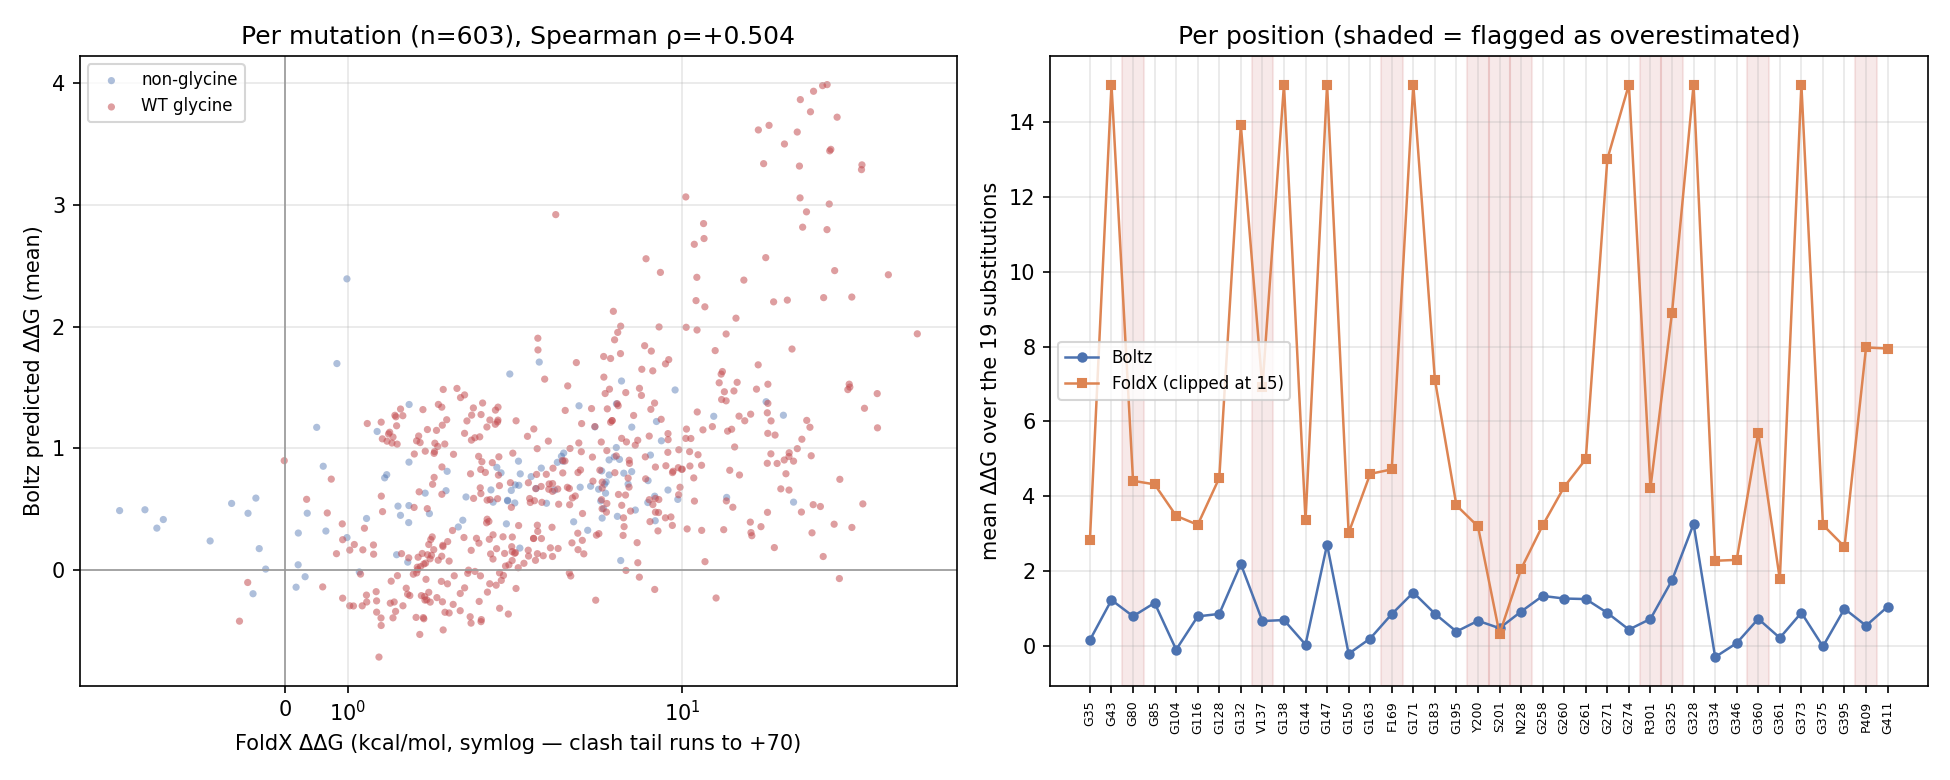
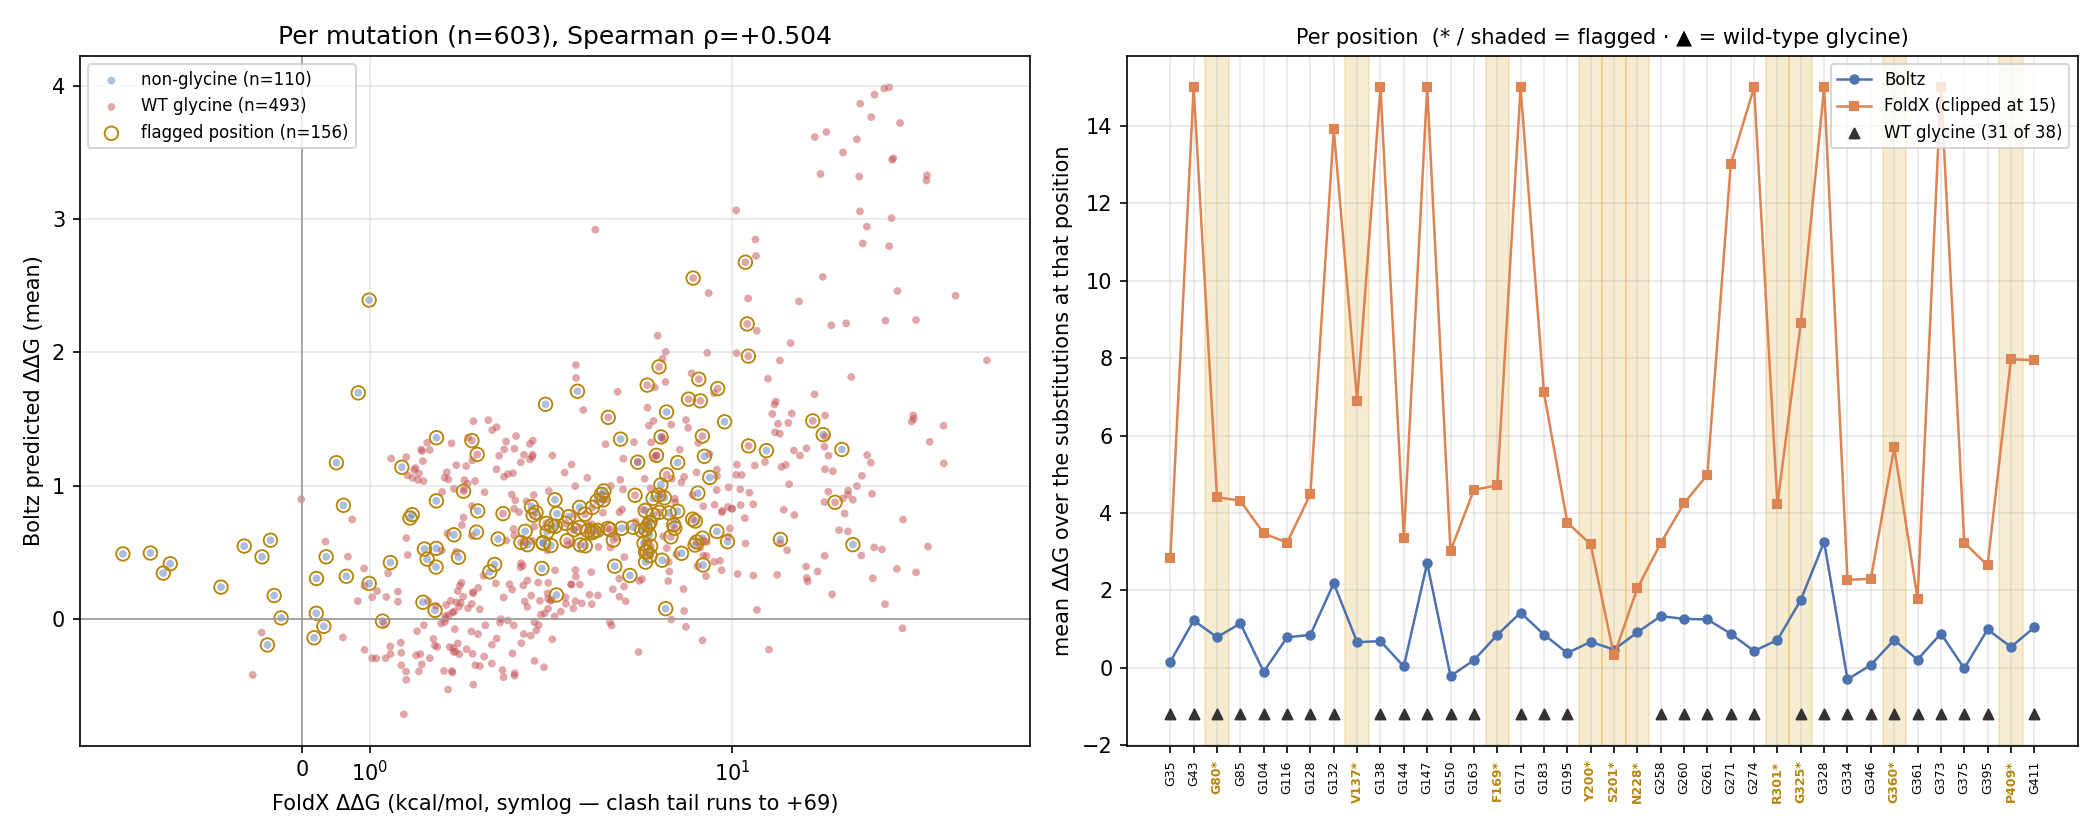
results/10: mark flagged positions and glycines in both comparison figures

diff --git a/results/10_gla_scan/map_discrepancy.py b/results/10_gla_scan/map_discrepancy.py
@@ -153,39 +153,72 @@ def _paint(pdb_path, per, out_pdb):
 
 
 def _figure(m, per, path):
+    """Discrepancy along the sequence, with flagged positions and glycines marked.
+
+    Two orthogonal annotations, because they overlap (3 of the 10 flagged positions
+    are themselves glycines): flagged = shaded band + bold red tick label; glycine =
+    black-outlined bar + 'G' marker strip under the axis.
+    """
     import matplotlib
     matplotlib.use("Agg")
     import matplotlib.pyplot as plt
+    from matplotlib.patches import Patch
     path.parent.mkdir(exist_ok=True)
-    o = per.sort_values("position")
+    o = per.sort_values("position").reset_index(drop=True)
     x = np.arange(len(o))
-    fig, (a, b, c) = plt.subplots(3, 1, figsize=(13, 9), sharex=True,
+    is_g = (o.wt_aa == "G").to_numpy()
+    fig, (a, b, c) = plt.subplots(3, 1, figsize=(14, 9.5), sharex=True,
                                   gridspec_kw=dict(height_ratios=[2, 2, 1.3]))
 
-    a.bar(x, o.delta_mean, color=["#C44E52" if v < 0 else "#4C72B0" for v in o.delta_mean])
+    for i, r in enumerate(o.itertuples(index=False)):
+        if r.flagged:
+            for ax in (a, b, c):
+                ax.axvspan(i - .5, i + .5, color="#DDAA33", alpha=.22, zorder=0)
+
+    a.bar(x, o.delta_mean,
+          color=["#C44E52" if v < 0 else "#4C72B0" for v in o.delta_mean],
+          edgecolor=["black" if g else "none" for g in is_g],
+          linewidth=[1.1 if g else 0 for g in is_g], zorder=2)
     a.axhline(0, color="0.3", lw=0.8)
     a.set_ylabel("Boltz − FoldX\n(percentile points)")
     a.set_title("Disagreement in relative ordering (no ground truth: neither is 'right')\n"
-                "blue = Boltz ranks it more destabilizing · red = FoldX does",
-                fontsize=10)
-    for i, r in enumerate(o.itertuples(index=False)):
-        if r.flagged:
-            a.axvspan(i-.5, i+.5, color="#DDAA33", alpha=.18, zorder=0)
+                "blue = Boltz ranks it more destabilizing · red = FoldX does", fontsize=10)
+    a.legend(handles=[
+        Patch(facecolor="#4C72B0", label="Boltz ranks more destabilizing"),
+        Patch(facecolor="#C44E52", label="FoldX ranks more destabilizing"),
+        Patch(facecolor="white", edgecolor="black", linewidth=1.1,
+              label="wild-type glycine (31 of 38)"),
+        Patch(facecolor="#DDAA33", alpha=.5, label="flagged position (10)"),
+    ], fontsize=8, ncol=2, loc="upper left", framealpha=.92)
 
-    b.plot(x, o.boltz.rank(pct=True)*100, "o-", ms=4, lw=1.2, label="Boltz (percentile)",
-           color="#4C72B0")
-    b.plot(x, o.foldx.rank(pct=True)*100, "s-", ms=4, lw=1.2, label="FoldX (percentile)",
-           color="#DD8452")
+    b.plot(x, o.boltz.rank(pct=True) * 100, "o-", ms=4, lw=1.2, color="#4C72B0",
+           label="Boltz (percentile)", zorder=2)
+    b.plot(x, o.foldx.rank(pct=True) * 100, "s-", ms=4, lw=1.2, color="#DD8452",
+           label="FoldX (percentile)", zorder=2)
     b.set_ylabel("per-position severity\n(percentile)")
     b.legend(fontsize=8); b.grid(alpha=.3)
 
-    c.bar(x, o.neighbors, color="#55A868")
+    c.bar(x, o.neighbors, color="#55A868",
+          edgecolor=["black" if g else "none" for g in is_g],
+          linewidth=[1.1 if g else 0 for g in is_g], zorder=2)
     c.set_ylabel("burial\n(neighbours)")
+    # 'G' strip marking every glycine position
+    for i, g in enumerate(is_g):
+        if g:
+            c.annotate("G", (i, 0), xytext=(0, -22), textcoords="offset points",
+                       ha="center", va="top", fontsize=6.5, color="#333333",
+                       annotation_clip=False, fontweight="bold")
     c.set_xticks(x)
-    c.set_xticklabels([f"{r.wt_aa}{r.position}" for r in o.itertuples(index=False)],
-                      rotation=90, fontsize=6)
+    c.set_xticklabels([f"{r.wt_aa}{r.position}" + ("*" if r.flagged else "")
+                       for r in o.itertuples(index=False)], rotation=90, fontsize=6)
+    for tick, fl in zip(c.get_xticklabels(), o.flagged):
+        if fl:
+            tick.set_color("#B8860B"); tick.set_fontweight("bold")
     c.grid(alpha=.3)
-    fig.tight_layout()
+    c.set_xlim(-0.8, len(o) - 0.2)
+    fig.text(0.5, 0.005, "* = flagged position (shaded) · outlined bars and the G strip "
+             "= wild-type glycine", ha="center", fontsize=8, color="0.3")
+    fig.tight_layout(rect=[0, 0.022, 1, 1])
     fig.savefig(path, dpi=150)
     plt.close(fig)
 

diff --git a/results/10_gla_scan/compare_foldx.py b/results/10_gla_scan/compare_foldx.py
@@ -132,38 +132,58 @@ def main():
 
 
 def _plots(scored, per_pos, out, regime):
+    """Scatter + per-position comparison, with glycines and flagged positions marked.
+
+    The two annotations are orthogonal and overlap (3 of the 10 flagged positions are
+    glycines), so they use different channels: glycine = colour/outline, flagged =
+    shaded band + bold tick label.
+    """
     import matplotlib
     matplotlib.use("Agg")
     import matplotlib.pyplot as plt
-    fig, (a, b) = plt.subplots(1, 2, figsize=(13, 5.2))
+    from matplotlib.patches import Patch
+    from matplotlib.lines import Line2D
+    fig, (a, b) = plt.subplots(1, 2, figsize=(14, 5.6))
 
-    gly = scored.wt_aa == "G"
-    a.scatter(scored.foldx[~gly], scored.boltz[~gly], s=12, alpha=0.45,
-              color="#4C72B0", edgecolors="none", label="non-glycine")
-    a.scatter(scored.foldx[gly], scored.boltz[gly], s=12, alpha=0.55,
-              color="#C44E52", edgecolors="none", label="WT glycine")
+    gly = (scored.wt_aa == "G").to_numpy()
+    flag = scored.position.isin(FLAGGED).to_numpy()
+    a.scatter(scored.foldx[~gly], scored.boltz[~gly], s=14, alpha=.45,
+              color="#4C72B0", edgecolors="none", label=f"non-glycine (n={(~gly).sum()})")
+    a.scatter(scored.foldx[gly], scored.boltz[gly], s=14, alpha=.5,
+              color="#C44E52", edgecolors="none", label=f"WT glycine (n={gly.sum()})")
+    # flagged mutations outlined on top, so they are visible in either colour
+    a.scatter(scored.foldx[flag], scored.boltz[flag], s=42, facecolors="none",
+              edgecolors="#B8860B", linewidths=.9,
+              label=f"flagged position (n={flag.sum()})")
     rho = spearmanr(scored.foldx, scored.boltz).statistic
     a.set_xscale("symlog", linthresh=5)
-    a.set_xlabel(f"FoldX ΔΔG (kcal/mol, symlog — clash tail runs to +70)")
+    a.set_xlabel("FoldX ΔΔG (kcal/mol, symlog — clash tail runs to +69)")
     a.set_ylabel(f"Boltz predicted ΔΔG ({regime})")
     a.set_title(f"Per mutation (n={len(scored)}), Spearman ρ={rho:+.3f}")
-    a.axhline(0, color="0.6", lw=0.8); a.axvline(0, color="0.6", lw=0.8)
-    a.legend(fontsize=8); a.grid(alpha=0.3)
+    a.axhline(0, color="0.6", lw=.8); a.axvline(0, color="0.6", lw=.8)
+    a.legend(fontsize=8, loc="upper left"); a.grid(alpha=.3)
 
-    order = per_pos.sort_values("position")
-    x = np.arange(len(order))
-    b.plot(x, order.mean_boltz, "o-", ms=4, lw=1.2, label="Boltz", color="#4C72B0")
-    b.plot(x, order.mean_foldx.clip(upper=15), "s-", ms=4, lw=1.2,
-           label="FoldX (clipped at 15)", color="#DD8452")
-    for i, r in enumerate(order.itertuples(index=False)):
+    o = per_pos.sort_values("position").reset_index(drop=True)
+    x = np.arange(len(o))
+    is_g = (o.wt_aa == "G").to_numpy()
+    for i, r in enumerate(o.itertuples(index=False)):
         if r.flagged:
-            b.axvspan(i-0.5, i+0.5, color="#C44E52", alpha=0.12)
+            b.axvspan(i - .5, i + .5, color="#DDAA33", alpha=.22, zorder=0)
+    b.plot(x, o.mean_boltz, "o-", ms=4, lw=1.2, label="Boltz", color="#4C72B0", zorder=3)
+    b.plot(x, o.mean_foldx.clip(upper=15), "s-", ms=4, lw=1.2, color="#DD8452",
+           label="FoldX (clipped at 15)", zorder=3)
+    # glycine positions get a filled marker along the baseline
+    b.scatter(x[is_g], np.full(is_g.sum(), -1.2), marker="^", s=22, color="#333333",
+              zorder=4, clip_on=False, label=f"WT glycine ({is_g.sum()} of {len(o)})")
     b.set_xticks(x)
-    b.set_xticklabels([f"{r.wt_aa}{r.position}" for r in order.itertuples(index=False)],
-                      rotation=90, fontsize=6)
-    b.set_ylabel("mean ΔΔG over the 19 substitutions")
-    b.set_title("Per position (shaded = flagged as overestimated)")
-    b.legend(fontsize=8); b.grid(alpha=0.3)
+    b.set_xticklabels([f"{r.wt_aa}{r.position}" + ("*" if r.flagged else "")
+                       for r in o.itertuples(index=False)], rotation=90, fontsize=6)
+    for tick, fl in zip(b.get_xticklabels(), o.flagged):
+        if fl:
+            tick.set_color("#B8860B"); tick.set_fontweight("bold")
+    b.set_ylabel("mean ΔΔG over the substitutions at that position")
+    b.set_title("Per position  (* / shaded = flagged · ▲ = wild-type glycine)", fontsize=10)
+    b.legend(fontsize=8); b.grid(alpha=.3)
 
     fig.tight_layout()
     p = out / f"figures/01_boltz_vs_foldx_{regime}.png"
